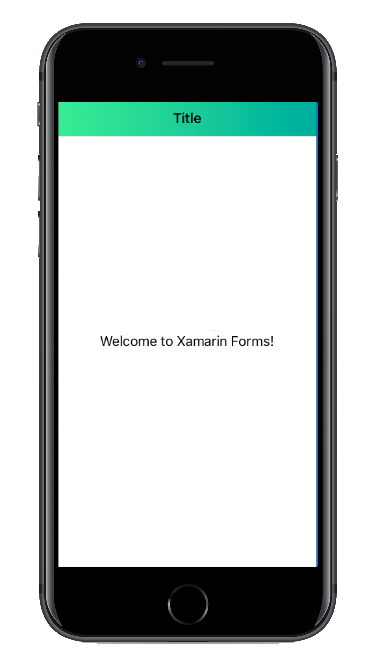
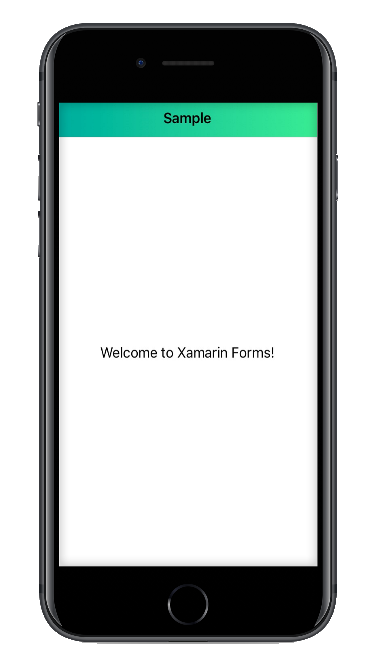
Change images to show

Changed region(s): [[0.1467, 0.1499, 0.8507, 0.8696], [0.616, 0.1499, 0.8507, 0.2099], [0.264, 0.5097, 0.7333, 0.5397]]

diff --git a/src/GradientNavigationHeader/GradientNavigationHeader/App.xaml.cs b/src/GradientNavigationHeader/GradientNavigationHeader/App.xaml.cs
@@ -13,7 +13,11 @@ namespace GradientNavigationHeader
         {
             InitializeComponent();
 
-            MainPage = new GradientNavigationHeader.Controls.NavigationPageGradientHeader(new MainPage());
+            MainPage = new GradientNavigationHeader.Controls.NavigationPageGradientHeader(new MainPage())
+            {
+                LeftColor = Color.FromHex("#36ED81"),
+                RightColor = Color.FromHex("#109F8D")
+            };
 
 
             //MainPage = new NavigationPage(new MainPage());
